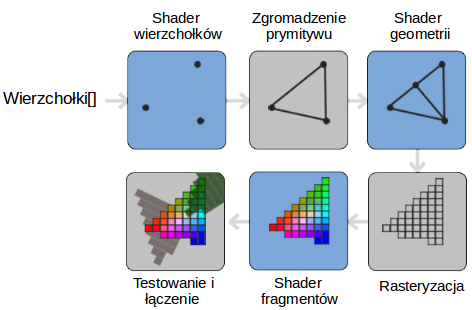
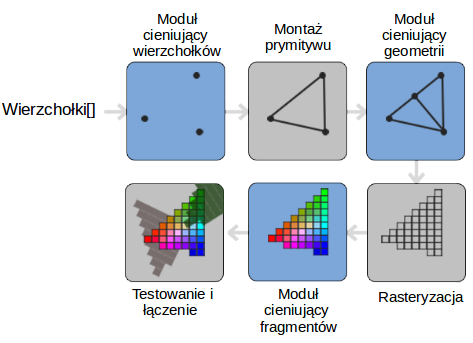
Thesis: add introduction, Nvidia 3D Vision description;

diff --git a/Documents/preamble/preamble.tex b/Documents/preamble/preamble.tex
@@ -1,7 +1,7 @@
 \documentclass[11pt,a4paper,twoside]{article}
 \usepackage[includeheadfoot, left=3cm, right=2cm, top=2.5cm, bottom=2.5cm, headheight=19.3pt]{geometry}
 
-\usepackage[russian,english,main=polish]{babel}
+\usepackage[polish]{babel}
 \usepackage[T1]{fontenc}
 \usepackage[utf8]{inputenc}
 \usepackage[scaled]{helvet}
@@ -13,6 +13,7 @@
 \usepackage{amssymb}
 \usepackage{bm}
 \usepackage{url}
+
 \usepackage{pdfpages}
 \usepackage{footnote}
 \usepackage[bookmarks, pagebackref]{hyperref}
@@ -28,6 +29,7 @@
 \usepackage[nottoc]{tocbibind}
 \usepackage{titlesec}
 \urlstyle{rm}
+
 \usepackage[ampersand]{easylist}
 \usepackage{enumitem}
 \setlist[itemize]{noitemsep, topsep=0pt, leftmargin=*, itemindent=-1cm}
@@ -68,17 +70,14 @@
 	urlcolor = black
 }
 
-
 \newcommand{\itemi}[1][sapphire]{\item[\color{#1} $\filledsquare$]}
 \newcommand{\itemii}[1][sapphire]{\item[\color{#1} $\square$]}
 \newcommand{\itemiii}[1][sapphire]{\item[\color{#1} $\bullet$]}
 
 \ListProperties(Hide=100, Progressive=1cm, Style=\color{sapphire}, Style**=\color{black}, Style*=$\square$ ,Style2*=$\bullet$)
 
-
 \newcommand{\headrulecolor}[1]{\patchcmd{\headrule}{\hrule}{\color{#1}\hrule}{}{}}
 \newcommand{\footrulecolor}[1]{\patchcmd{\footrule}{\hrule}{\color{#1}\hrule}{}{}}
-
 
 \newcommand{\infostyle}[1]
 {
@@ -90,7 +89,6 @@
 	\justify
 	\pagestyle{fancy}
 }
-
 
 \newcommand{\thesisstyle}
 {
@@ -105,7 +103,6 @@
 	\justify
 	\pagestyle{fancy}
 }
-
 
 \newcommand{\fancyfootnotetext}[2]
 {
